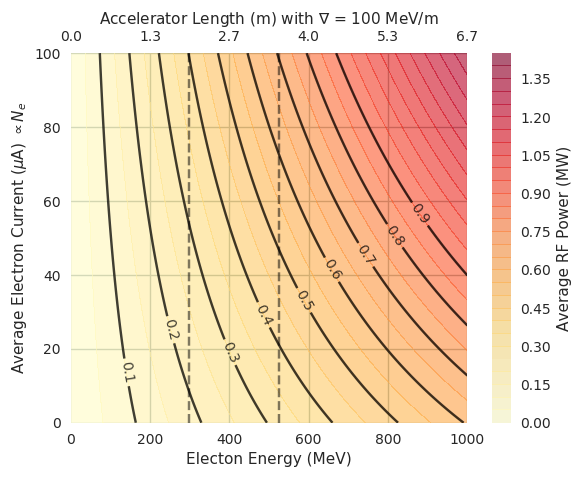
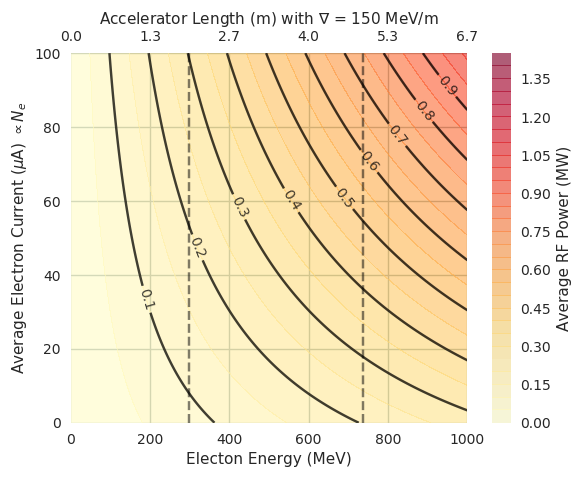
table files

Changed region(s): [[0.1549, 0.0881, 0.8055, 0.9099], [0.2169, 0.7631, 0.2478, 0.8805], [0.6196, 0.0294, 0.6506, 0.0587]]

diff --git a/gamma.py b/gamma.py
@@ -32,10 +32,6 @@ Nph = Ne*Nl*thomsonCrossSection/spotSizeArea*BWscan
 BW = np.zeros([len(gammaE),len(thetaRMS)])
 nGammaBW = np.zeros([len(gammaE),len(thetaRMS)])
 
-#print('gammaE',gammaE)
-#gammaPhotonEnergy = 2 * gammaE** 2 * (1+np.cos(thetaL)) * laserPhotonEnergy / (1 + (gammaE * scatteringAngle)**2 + a0**2 + 4*gammaE*laserPhotonEnergy/0.511e6)
-#gammaPhotonEnergy = 2 * gammaE** 2 * (1+np.cos(thetaL)) * laserPhotonEnergy / (1 + np.power(np.multiply(gammaE,scatteringAngle),2) + a0**2 + 4*gammaE*laserPhotonEnergy/0.511e6)
-
 sns.set(color_codes=True)
 colors = (plt.rcParams['axes.prop_cycle'].by_key()['color'])
 
@@ -80,7 +76,6 @@ laserFreqMultEff = 0.4 #3w estimate
 nLaserPhotonScan = laserPowerScan * 6.242e18 *laserFreqMultEff / laserPhotonEnergy
 BW = 1e-3 #fractional bandwidth
 gammaOutput = np.geomspace(1.0e12,1.0e14,num=3)
-print(gammaOutput)
 for i in range(len(gammaOutput)):
 	nElectrons = gammaOutput[i]*spotSizeArea/thomsonCrossSection/nLaserPhotonScan/BW*1.602e-19
 	plt.loglog(nElectrons, laserPowerScan)
@@ -95,7 +90,7 @@ plt.savefig('gammaOutput.png', bbox_inches='tight')
 plt.savefig('gammaOutput.pdf', bbox_inches='tight')
 
 #rf power calculation based on xband system
-gradient = np.array([50, 100, 150, 80])
+gradient = 150.0
 electronEnergyScan = np.linspace(1, 1000, 1000) #MeV
 beamPulseWidth = 1000/11.424e9*1e6 #1000 microbunches at x-band (us)
 rfRiseFallTime = 0.5 # (us)
@@ -106,113 +101,39 @@ dutyFactor = pulseWidth * 1e-6 * repRate
 peakBeamCurrent = chargePerRepScan / beamPulseWidth /1e3 #(mA)
 averageBeamCurrent = chargePerRepScan *1e-12 * repRate *1e6 #(uA)
 eg,ig = np.meshgrid(electronEnergyScan,peakBeamCurrent)
-shuntImpedance = 160 #(Mohms m) *2.2 LN2 cooling, *4.6 He.
+shuntImpedance = 352 #(Mohms m) 160 Cu, 160*2.2 w/LN2 cooling, *4.6 w/He.
 peakBeamPower = eg*ig/1e3
-systemLength = eg/gradient[2]
+systemLength = eg/gradient
 peakStructurePower = eg*eg/systemLength/shuntImpedance
 rfPowerMarginFactor = 1.1
 totalPeakRFPower = (peakBeamPower + peakStructurePower)*rfPowerMarginFactor
 totalAverageRFPower = totalPeakRFPower * dutyFactor
 
 #uncomment to generate rf power plot with interactive contour labeling
-# plt.ion()
-# fig,axPrime =plt.subplots()
-# im=axPrime.contourf(electronEnergyScan,averageBeamCurrent,totalAverageRFPower, cmap='YlOrRd', alpha=.6,levels=np.arange(0.0,1.5,0.05))
-# #for c in im.collections:
-# #    c.set_edgecolor('red')
-# cbar = fig.colorbar(im, ax=axPrime)
-# cbar.set_label('Average RF Power (MW)')
-# powerLevels = np.arange(0.1,1.0,.1)
-# contours = axPrime.contour(electronEnergyScan,averageBeamCurrent,totalAverageRFPower, colors='black',levels=powerLevels, alpha=0.75)
+plt.ion()
+fig,axPrime =plt.subplots()
+im=axPrime.contourf(electronEnergyScan,averageBeamCurrent,totalAverageRFPower, cmap='YlOrRd', alpha=.6,levels=np.arange(0.0,1.5,0.05))
+cbar = fig.colorbar(im, ax=axPrime)
+cbar.set_label('Average RF Power (MW)')
+powerLevels = np.arange(0.1,1.0,.1)
+contours = axPrime.contour(electronEnergyScan,averageBeamCurrent,totalAverageRFPower, colors='black',levels=powerLevels, alpha=0.75)
 
-# plt.clabel(contours, fontsize=10, colors='black', fmt=r'%1.1f', manual=True)
-# axPrime.set_xlabel('Electon Energy (MeV)')
-# axPrime.set_ylabel('Average Electron Current ($\mu$A) $\propto N_e$')
+plt.clabel(contours, fontsize=10, colors='black', fmt=r'%1.1f', manual=True)
+axPrime.set_xlabel('Electon Energy (MeV)')
+axPrime.set_ylabel('Average Electron Current ($\mu$A) $\propto N_e$')
 
-# axTop= axPrime.twiny()
-# xPrimeTicks = axPrime.get_xticks()
-# xTopTicks = xPrimeTicks/gradient[2]
-# axTop.set_xticks(xTopTicks)
-# axTop.xaxis.set_major_formatter(FormatStrFormatter('%1.1f'))
-# axTop.grid(False)
-# axTop.set_xlabel(r'Accelerator Length (m) with $\nabla$ = 100 MeV/m')
-# axPrime.grid(True, color='#95a5a6')
-# axPrime.set_facecolor('#ffffff')
-# axPrime.axvline(x=525, ls='--', alpha=0.5, color='black')
-# axPrime.axvline(x=300, ls='--', alpha=0.5, color='black')
-# plt.ioff()
-# plt.savefig('rfPower.png', bbox_inches='tight')
-# plt.savefig('rfPower.png', bbox_inches='tight')
-
-
-#plt.show()
-
-
-
-def calcSysParams(eG):
-	print('Gamma Energy,', eG, 'MeV')
-	#,BW,Ng,eE,grad,shuntZ,repRate,laserWavelength,eLaser
-	return  'yo'
-
-def calcIntLaser(wavelength, pulseEnergy, repRate, efficiency):
-	laserPhotonEnergy = 4.1357e-15 * 3.0e8 * 1.0e9 / wavelength # laser photon energy (eV) with wavelength (nm)
-	avgLaserPower = pulseEnergy * repRate # W from J * Hz
-	nLaser = avgLaserPower * 6.242e18 * efficiency / laserPhotonEnergy
-	print('-- Interaction Laser Parameters --')
-	print('Pulse Energy (J):', pulseEnergy)
-	print('Repetition Rate (Hz):', repRate)
-	print('Wavelength (nm):', wavelength)
-	print('Average Laser Power (W):',avgLaserPower)
-	print('Number of Laser Photons (#/s):', '{:.2e}'.format(nLaser))
-	#laserParams = [avgLaserPower,nLaser,laserPhotonEnergy]
-	return nLaser
-
-def calcXband(grad,eMax,repRate,shuntZ,averageBeamCurrent):
-	nMicroBunch = 1000 #assume 1000 microbunches
-	f = 11.424e9 #xband (Hz)
-	beamPulseWidth = nMicroBunch/f*1e6 #(us)
-	rfRiseFallTime = 0.5 #(us)
-	pulseWidth = beamPulseWidth + rfRiseFallTime #total pulse width (us)
-	chargePerRepScan = averageBeamCurrent * 1e-6 * 1e12 / repRate #pc #np.linspace(1,100*1000,1000) #(pC)
-	chargePerMicrobunch = chargePerRepScan / 1000 #pC
-	dutyFactor = pulseWidth * 1e-6 * repRate
-	peakBeamCurrent = chargePerRepScan / beamPulseWidth /1e3 #(mA)
-	#averageBeamCurrent = chargePerRepScan * 1e-12 * repRate * 1e6 #(uA)
-	eg,ig = np.meshgrid(electronEnergyScan,peakBeamCurrent)
-	#shuntImpedance = 160 #(Mohms m) *2.2 LN2 cooling, *4.6 He.
-	peakBeamPower = eMax*peakBeamCurrent/1e3
-	systemLength = eMax/grad
-	peakStructurePower = eMax**2/systemLength/shuntZ
-	rfPowerMarginFactor = 1.1
-	totalPeakRFPower = (peakBeamPower + peakStructurePower)*rfPowerMarginFactor
-	totalAverageRFPower = totalPeakRFPower * dutyFactor *1e3
-	nElectrons = averageBeamCurrent*1e-6/1.602e-19
-	print('-- X-Band Accelerator Parameters --')
-	print('Electron Energy (MeV):', eMax)
-	print('Gradient (MV/m):', grad)
-	print('Repetition Rate (Hz):', repRate)
-	print('Average Current (uA):', averageBeamCurrent)
-	print('Number of Electrons (#/s):', '{:.2e}'.format(nElectrons))
-	print('Average RF Power (kW):',totalAverageRFPower)
-	print('Peak RF Power (MW):',totalPeakRFPower)
-	print('Accelerator Length (m):', systemLength)
-	print('chargePerMicrobunch (pC):', chargePerMicrobunch)
-
-#calculate and print system params
-
-print('-- ICS System Parameters --')
-eG = 5 #max gamma energy (Mev)
-Ng = 1e14 #number of output gammas per second
-BW = 1e-3 #fractional bandwidth
-grad = 100
-repRate = 1000
-shuntZ = 160
-#prescribe gamma and laser params to calc electrons
-
-#maybe need lookup unless solve analytic
-calcXband(grad,300,repRate,shuntZ,10)
-
-x = calcIntLaser(343, 1, 1000, 0.5)
-
-print(x)
-calcSysParams(5)
+axTop= axPrime.twiny()
+xPrimeTicks = axPrime.get_xticks()
+xTopTicks = xPrimeTicks/gradient
+axTop.set_xticks(xTopTicks)
+axTop.xaxis.set_major_formatter(FormatStrFormatter('%1.1f'))
+axTop.grid(False)
+axTop.set_xlabel(r'Accelerator Length (m) with $\nabla$ = 150 MeV/m')
+axPrime.grid(True, color='#95a5a6')
+axPrime.set_facecolor('#ffffff')
+axPrime.axvline(x=736, ls='--', alpha=0.5, color='black')
+axPrime.axvline(x=300, ls='--', alpha=0.5, color='black')
+plt.ioff()
+plt.savefig('rfPower.png', bbox_inches='tight')
+plt.savefig('rfPower.png', bbox_inches='tight')
+plt.show()

diff --git a/icsSystemTrade.py b/icsSystemTrade.py
@@ -1,0 +1,62 @@
+import numpy as np
+import pandas as pd
+import math
+import itertools
+
+#parameters to iterate over (system, laser, linac)
+gammaE = [5.0,10.0,20.0] # output gamma energy in MeV
+gammaN = [1e12,1e13,1e14] # number of output gammas
+gammaBW = [1e-3] # fractional bandwidth
+repRate = [1000.0] # system reprate in Hz
+laserWavelength = [343,515] # interaction laser wavelength in nm
+laserPulseEnergy = [1.0, 2.0] # interaction laser pulse energy in J
+accShuntZ = [160, 160*2.2] # linac shunt impedance in Mohms m
+accGrad = [100,150] # linac gradient in MV/m
+
+#linac params
+nMicroBunch = 1000 #assume 1000 microbunches
+f = 11.424e9 #xband (Hz)
+beamPulseWidth = nMicroBunch/f*1e6 #(us)
+rfRiseFallTime = 0.5 #(us)
+pulseWidth = beamPulseWidth + rfRiseFallTime #total pulse width (us)
+
+#interaction region params
+thomsonXS = 0.63e-28 #(m2)
+spotSizeDia = 30 #(um)
+spotSizeArea = math.pi*(spotSizeDia * 1.0e-6 /2.0) ** 2 #(m2)
+
+x=np.zeros(len(gammaE)*len(gammaN)*len(gammaBW)*len(repRate)*len(laserWavelength)*len(laserPulseEnergy)*len(accShuntZ)*len(accGrad))
+df = pd.DataFrame({
+	'gammaE':x,'gammaN':x,'gammaBW':x,'repRate':x,'laserWavelength':x,'laserPulseEnergy':x,'accShuntZ':x,'accGrad':x,'laserAvgPower':x,'laserHarmonicEff':x,'laserN':x,'accElectronN':x,'accAvgCurrent':x,'accElectronE':x,'accLength':x,'accAvgPower':x,'accPeakPower':x})
+df=df[['gammaE','gammaN','gammaBW','repRate','laserWavelength','laserPulseEnergy','accShuntZ','accGrad','laserAvgPower','laserHarmonicEff','laserN','accElectronN','accAvgCurrent','accElectronE','accLength','accAvgPower','accPeakPower']]
+index = 0
+for p in itertools.product(gammaE,gammaN,gammaBW,repRate,laserWavelength,laserPulseEnergy,accShuntZ,accGrad):
+	df.loc[index,:8] = p
+	# interaction laser calculations
+	laserPhotonEnergy = 4.1357e-15 * 3.0e8 * 1.0e9 / df.at[index,'laserWavelength'] # laser photon energy (eV) with wavelength (nm)
+	if df.at[index,'laserWavelength'] == 343:
+		df.at[index,'laserHarmonicEff'] = 0.4
+	elif df.at[index,'laserWavelength'] == 515:
+		df.at[index,'laserHarmonicEff'] = 0.8
+	else:
+		df.at[index,'laserHarmonicEff'] = 0.5
+	df.at[index,'laserAvgPower'] = df.at[index,'laserPulseEnergy'] * df.at[index,'repRate'] # W from J * Hz
+	df.at[index,'laserN'] = df.at[index,'laserAvgPower'] * 6.242e18 * df.at[index,'laserHarmonicEff'] / laserPhotonEnergy # number of interaction photons
+	#calc electron params needed for single pass system
+	df.at[index,'accElectronN'] = df.at[index,'gammaN'] * spotSizeArea / df.at[index,'laserN'] / thomsonXS / df.at[index,'gammaBW']
+	df.at[index,'accAvgCurrent'] = df.at[index,'accElectronN']*1.602e-19*1e6 # uA
+	df.at[index,'accElectronE'] = 0.511/2*np.sqrt(df.at[index,'gammaE']/laserPhotonEnergy*1.e6) # approax max electron in MeV
+	df.at[index,'accLength'] = df.at[index,'accElectronE']/df.at[index,'accGrad']
+	dutyFactor = pulseWidth * 1e-6 * df.at[index,'repRate']
+	chargePerRep = df.at[index,'accAvgCurrent'] * 1e-6 * 1e12 / df.at[index,'repRate']
+	peakStructurePower = df.at[index,'accElectronE']**2/df.at[index,'accLength']/df.at[index,'accShuntZ']
+	peakBeamCurrent = chargePerRep / beamPulseWidth / 1e3 #(mA)
+	peakBeamPower = df.at[index,'accElectronE']*peakBeamCurrent/1e3
+	rfPowerMarginFactor = 1.1
+	df.at[index,'accPeakPower'] = (peakBeamPower + peakStructurePower)*rfPowerMarginFactor #MW
+	df.at[index,'accAvgPower'] = df.at[index,'accPeakPower'] * dutyFactor *1e3 #kW
+	index = index+1
+df=df[['gammaE','gammaN','gammaBW','repRate','laserWavelength','laserN','laserPulseEnergy','laserAvgPower','laserHarmonicEff','accElectronE','accAvgCurrent','accLength','accAvgPower','accPeakPower','accElectronN','accGrad','accShuntZ']]
+df.to_csv('out.csv')
+print(df.head())
+

diff --git a/scratch.py b/scratch.py
@@ -1,0 +1,49 @@
+def calcSysParams(eG):
+	print('Gamma Energy,', eG, 'MeV')
+	#,BW,Ng,eE,grad,shuntZ,repRate,laserWavelength,eLaser
+	return  'yo'
+
+def calcIntLaser(wavelength, pulseEnergy, repRate, efficiency):
+	laserPhotonEnergy = 4.1357e-15 * 3.0e8 * 1.0e9 / wavelength # laser photon energy (eV) with wavelength (nm)
+	avgLaserPower = pulseEnergy * repRate # W from J * Hz
+	nLaser = avgLaserPower * 6.242e18 * efficiency / laserPhotonEnergy
+	print('-- Interaction Laser Parameters --')
+	print('Pulse Energy (J):', pulseEnergy)
+	print('Repetition Rate (Hz):', repRate)
+	print('Wavelength (nm):', wavelength)
+	print('Average Laser Power (W):',avgLaserPower)
+	print('Number of Laser Photons (#/s):', '{:.2e}'.format(nLaser))
+	#df = pd.DataFrame(
+	#	{"parameter" : ['Pulse Energy (J)','Repetition Rate (Hz)', 'Wavelength (nm)'],
+	#	"value" : [pulseEnergy, repRate, wavelength]})
+
+def calcXband(grad,eMax,repRate,shuntZ,averageBeamCurrent):
+	nMicroBunch = 1000 #assume 1000 microbunches
+	f = 11.424e9 #xband (Hz)
+	beamPulseWidth = nMicroBunch/f*1e6 #(us)
+	rfRiseFallTime = 0.5 #(us)
+	pulseWidth = beamPulseWidth + rfRiseFallTime #total pulse width (us)
+	chargePerRepScan = averageBeamCurrent * 1e-6 * 1e12 / repRate #pc #np.linspace(1,100*1000,1000) #(pC)
+	chargePerMicrobunch = chargePerRepScan / 1000 #pC
+	dutyFactor = pulseWidth * 1e-6 * repRate
+	peakBeamCurrent = chargePerRepScan / beamPulseWidth /1e3 #(mA)
+	#averageBeamCurrent = chargePerRepScan * 1e-12 * repRate * 1e6 #(uA)
+	eg,ig = np.meshgrid(electronEnergyScan,peakBeamCurrent)
+	#shuntImpedance = 160 #(Mohms m) *2.2 LN2 cooling, *4.6 He.
+	peakBeamPower = eMax*peakBeamCurrent/1e3
+	systemLength = eMax/grad
+	peakStructurePower = eMax**2/systemLength/shuntZ
+	rfPowerMarginFactor = 1.1
+	totalPeakRFPower = (peakBeamPower + peakStructurePower)*rfPowerMarginFactor
+	totalAverageRFPower = totalPeakRFPower * dutyFactor *1e3
+	nElectrons = averageBeamCurrent*1e-6/1.602e-19
+	print('-- X-Band Accelerator Parameters --')
+	print('Electron Energy (MeV):', eMax)
+	print('Gradient (MV/m):', grad)
+	print('Repetition Rate (Hz):', repRate)
+	print('Average Current (uA):', averageBeamCurrent)
+	print('Number of Electrons (#/s):', '{:.2e}'.format(nElectrons))
+	print('Average RF Power (kW):',totalAverageRFPower)
+	print('Peak RF Power (MW):',totalPeakRFPower)
+	print('Accelerator Length (m):', systemLength)
+	print('chargePerMicrobunch (pC):', chargePerMicrobunch)
